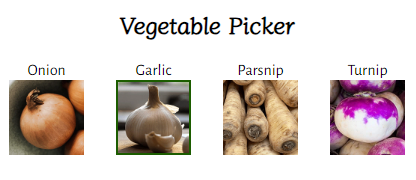
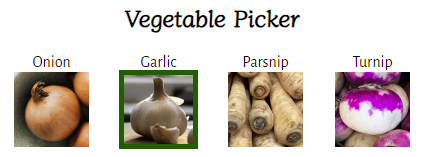
Doc: Add lighthouse test content and update images.

diff --git a/README.md b/README.md
@@ -269,6 +269,7 @@ Accessibilty was kept in mind when building this web application by:
 - Using semantic HTML elements where appropriate.
 - Using contrasting colours that clearly stand out from the background.
 - Including clear and descriptive alt attributes for all `<img/>` elements.
+- Using aria labels to describe the actions that will be taken when interacting with links. This is shown in the email address links in the footer in index.html.
 
 ## Technologies Used
 ### Languages
@@ -339,10 +340,10 @@ To deploy this project locally on your device, follow the below steps:
 | To interact with the input fields without confusion as to their purpose. | The input fields are presented clearly to the user, without any major distraction. It is clear that the user should fill in two length values in the Vegetable Bed Size div, and the heading of "Vegetable **Picker**" tell the user that they need to interact with the radio buttons or vegetable images before proceeding. | [1. Input Fields on Mobile Screens Image](assets/images/readme/input-fields-mobile.png) [2. Input Fields on Wider Screens Image](assets/images/readme/input-fields-tablet.png) |
 | To learn important information about the vegetables they wish to plant. | The user is presented with customised information about their chosen vegetable in the results section. Any novice gardeners will be able to use the application to plant the vegetable without being overwhelmed with too many details. | [Suggested Planting Paragaphs Image](assets/images/readme/suggested-planting-black.png) |
 | **Returning Visitor Goals** |||
-| To be able to reproduce previous results | With just three inputs required of the user, there is no risk that they will not be able to reproduce previous results, as long as they remember what vegetable bed size they chose. This goal is also achieved in the same user session by not clearing the input fields when the recalculate button is pressed.  ||
+| To be able to reproduce previous results | With just three inputs required of the user, there is no risk that they will not be able to reproduce previous results, as long as they remember what vegetable bed size they chose. This goal is also achieved in the same user session by not clearing the input fields when the recalculate button is pressed.  |[Input Fields Image](assets/images/readme/input-fields-mobile.png) |
 | To reference specific planting information for certain vegetables. | A brightly-coloured vegetable card is presented to the user which succinctly lists the important planting factors, including a large image of the vegetable. This is a positive experience for the returning user who may not wish to read through the Suggested Planting paragraphs again. | [Vegetable Card Image](assets/images/readme/vegetable-card.png) |
 | **Frequent Visitor Goals** |||
-| To check for updates and improvements to the web application. | The straightforward layout of the web application allows frequent users to easily notice if major changes or updates have been made. The use of informative headings means that any new input fields required of the user would not be easily overlooked. The footer provides a link for the user to get in touch and ask questions or even make suggestions. ||
+| To check for updates and improvements to the web application. | The straightforward layout of the web application allows frequent users to easily notice if major changes or updates have been made. The use of informative headings means that any new input fields required of the user would not be easily overlooked. The footer provides a link for the user to get in touch and ask questions or even make suggestions. | [Footer Link Image](assets/images/readme/footer.png)|
 
 ### Full Testing
 The web application was tested on a Windows 10 desktop with a 26" monitor and on a One Plus 9 Pro mobile phone. Other types of devices were testing using Chrome Developer Tools.
@@ -366,8 +367,9 @@ Vegetable Radio Buttons | On wider screens, when a vegetable image was clicked, 
 Calculate Button | When the user correctly fills out the size input fields and selects a vegetable, the information section is hidden and the results section is displayed. | Button clicked with input fields filled out correctly and a vegetable radio button checked. | The information section is hidden and the results section is displayed. | Pass |
 | Clear Form Button | When the user clicks the button, any value in the size input fields are cleared and the radio button are unchecked. Any green borders around the vegetable images on wider screen are removed. | Button clicked when values are present in the size input fields and a vegetable is selected. | The size input fields are cleared and the vegetable radio buttons or green borders are unchecked/removed. | Pass |
 | Clear Form Button | When the user clicks the Clear Form button when no values are present in the size input fields and no vegetable radio button is selected, no changes are observed on the site. | Button clicked when no values are present in the size input fields and no vegetable radio button is selected. | No changes observed. | Pass |
+| Contact Us Link #1 | When clicked, the user is redirected to an email app with the email address populated in the To field | Link clicked | Email app opened with email in To field | Pass |
 | Recalculate Button | When clicked, the results section is hidden and the information section displayed, with the user's previous inputs still present in their respective fields. | Button clicked. | The results section is hidden and the information section displayed again with the user's previous inputs still present in their respective fields. | Pass |
-| Contact Us link | When clicked, the user is redirected to an email app with the email address populated in the To field | Link clicked | Email app opened with email in To field | Pass |
+| Contact Us Link #2 | When clicked, the user is redirected to an email app with the email address populated in the To field | Link clicked | Email app opened with email in To field | Pass |
 
 ### Automated Testing
 [W3C](https://validator.w3.org/) was used to validate the HTML and CSS files. [JSHint](https://jshint.com/) was used to validate the Javascript file.
@@ -376,8 +378,29 @@ Calculate Button | When the user correctly fills out the size input fields and s
 - [script.js](assets/images/readme/jshint-metrics.png) - Passed with no warnings.
 
 ### Lighthouse Testing
+The Lighthouse feature in Chrome Developer Tools was used to test the performance, accessibility, best practices, and search engine optmisation qualities of the web application.
+
 #### Desktop Tests
+All tests in dekstop mode were satisfactory with scores between 90 and 100.
+
+Index page:
+
+![Lighthouse Test - Desktop index.html](assets/images/readme/testing/lighthouse-desktop-index.png)
+
+404 page:
+
+![Lighthouse Test - Desktop 404.html]()
+
 #### Mobile Tests
+All tests in mobile mode were satisfactory with scores between 90 and 100.
+
+Index page:
+
+![Lighthouse Test - Mobile index.html](assets/images/readme/testing/lighthouse-mobile-index.png)
+
+404 page:
+
+![Lighthouse Test - Mobile 404.html]()
 
 ### Accessibility Testing
 [Wave](https://wave.webaim.org/) was used to check the web application for errors and issues associated with accessibility.
@@ -401,6 +424,7 @@ The results for each page are shown below.
 - To improve accessibilty and not sacrifice the existing code structure, the use of `aria-labelledby` was utilised for each radio button to make sure users of screen readers would know which button they were interacting with. 
 
 #### 404.html
+![Results of Wave test for 404.html]()
 
 ## Bugs
 ### Known Bugs
@@ -473,3 +497,7 @@ I would like to acknowledge the following people:
 lighthouse tests
 
 wave tests for new pages
+
+table of contents
+
+spell check all files
